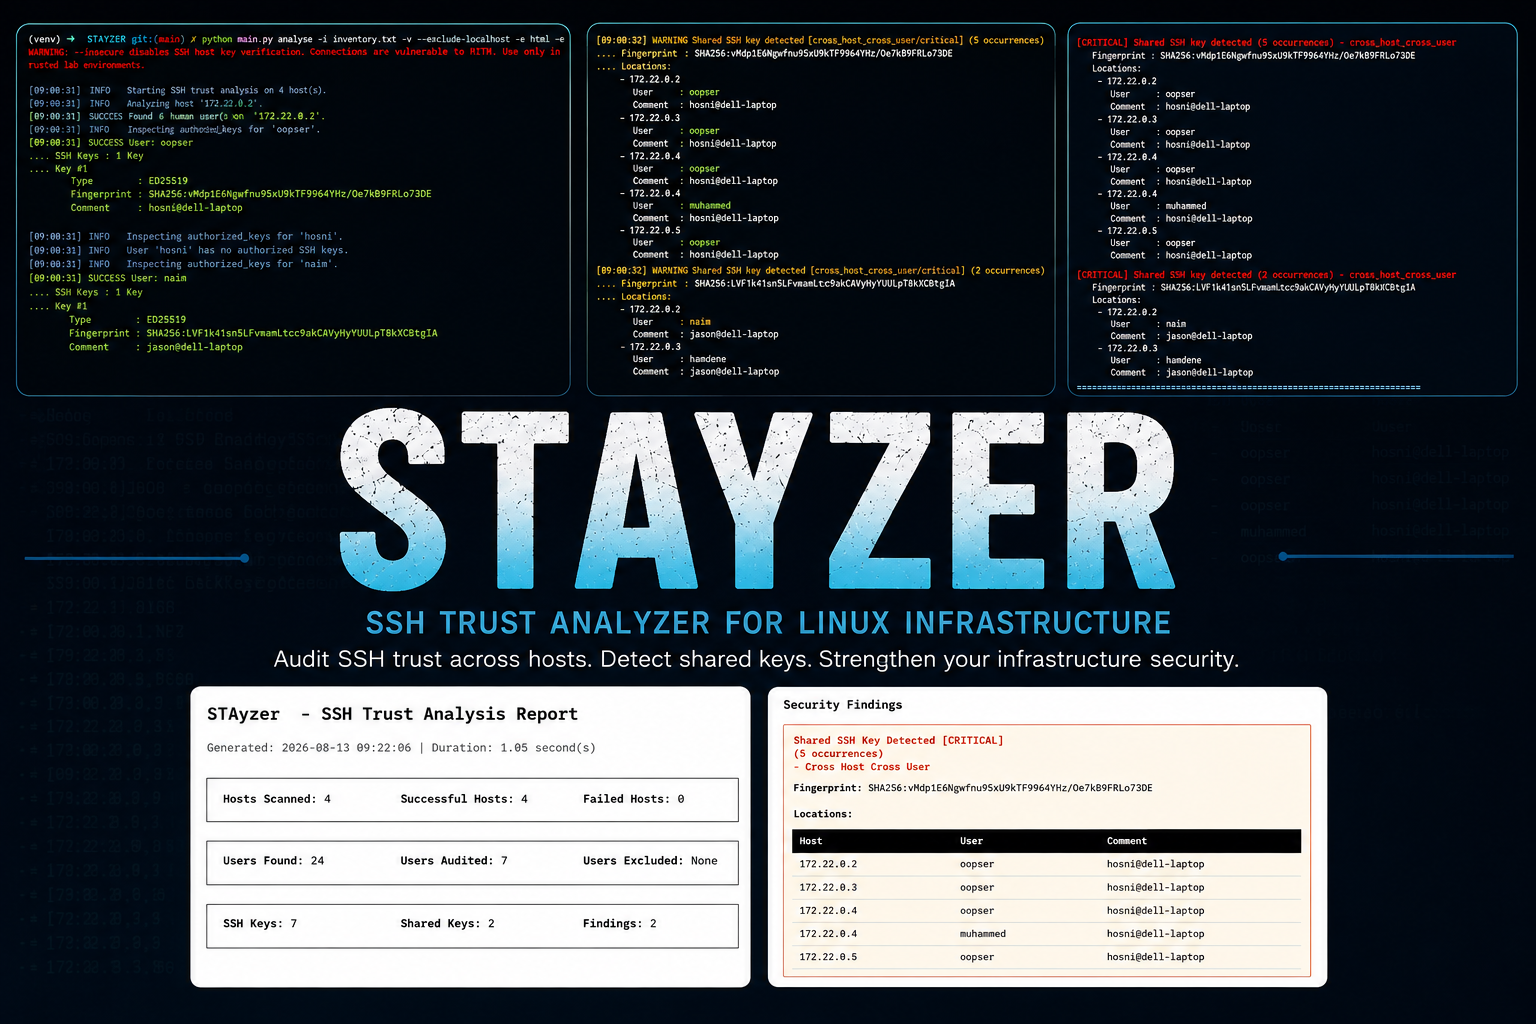
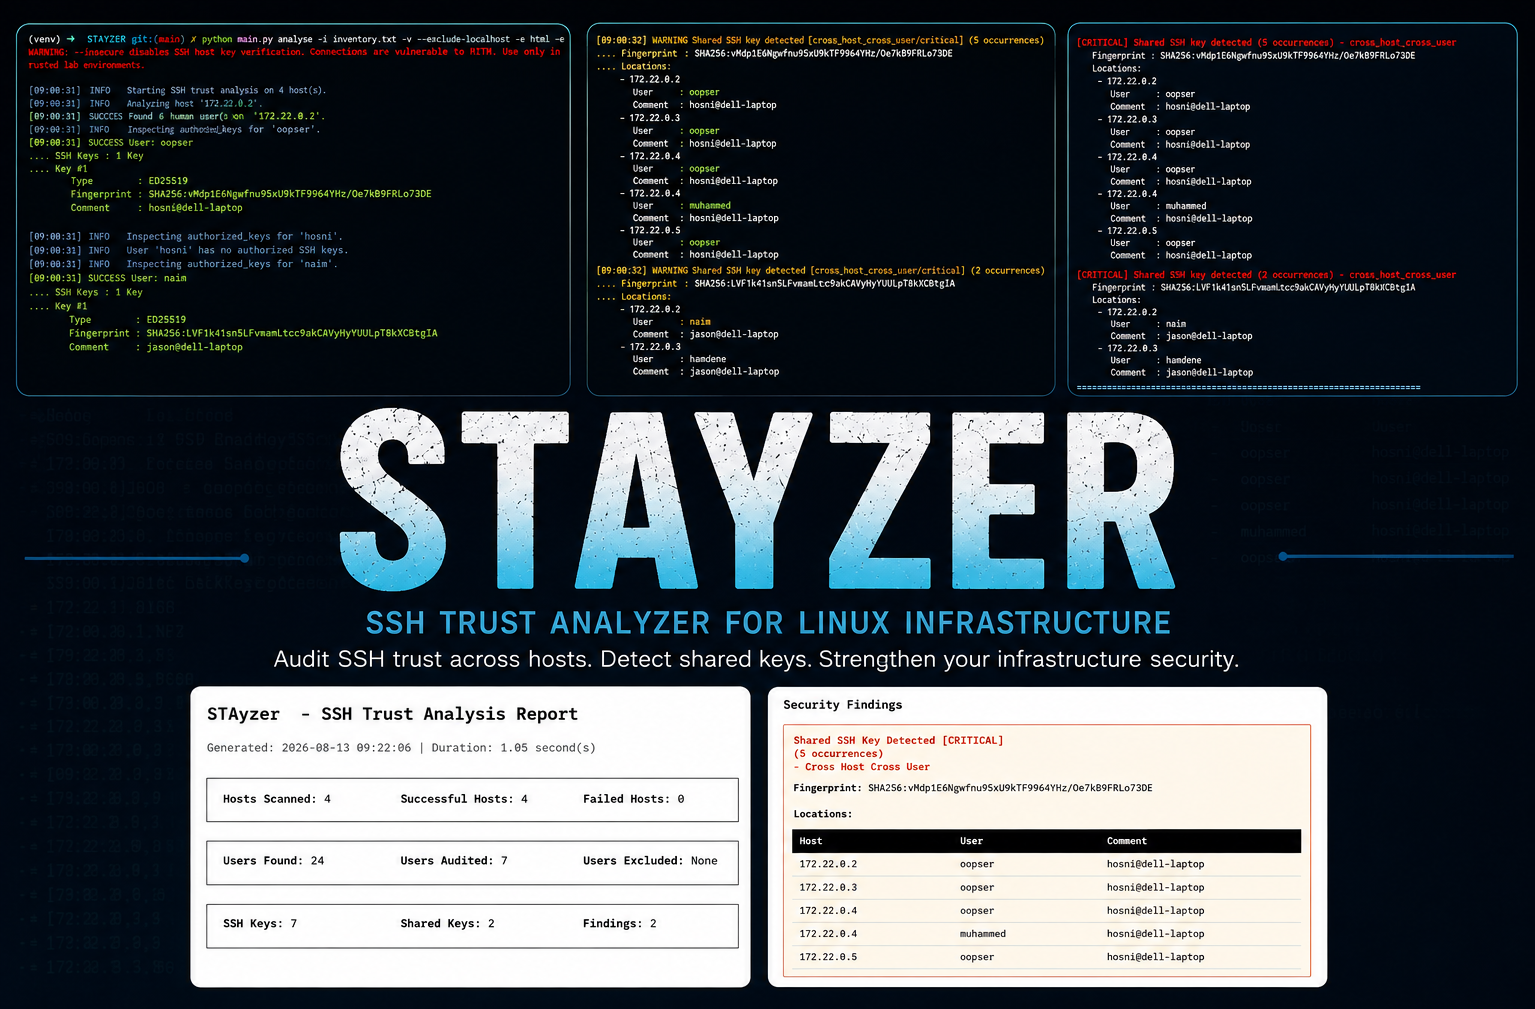
[+] STAyser Documentation Added.

Changed region(s): [[0.0, 0.0307, 0.9798, 0.9832], [0.8267, 0.5223, 0.9798, 0.553], [0.0306, 0.5223, 0.1531, 0.553]]

diff --git a/main.py b/main.py
@@ -1,11 +1,9 @@
 import asyncio
-
-import asyncssh
 import click
 
 from reports.html import export_html
 from reports.json import export_json
-from collectors.analyzer import analyze_ssh_trust, check_duplicate_keys
+from collectors.analyzer import analyze_ssh_trust
 from hosts.local import LocalHost
 from hosts.ssh import SSHHost
 from datetime import datetime
@@ -93,7 +91,7 @@ def _format_duration(seconds: float):
 
 @click.group()
 def cli():
-    """STAyazer - SSH Trust Analayzer."""
+    """STAyzer - SSH Trust Analayzer."""
     pass
 
 
